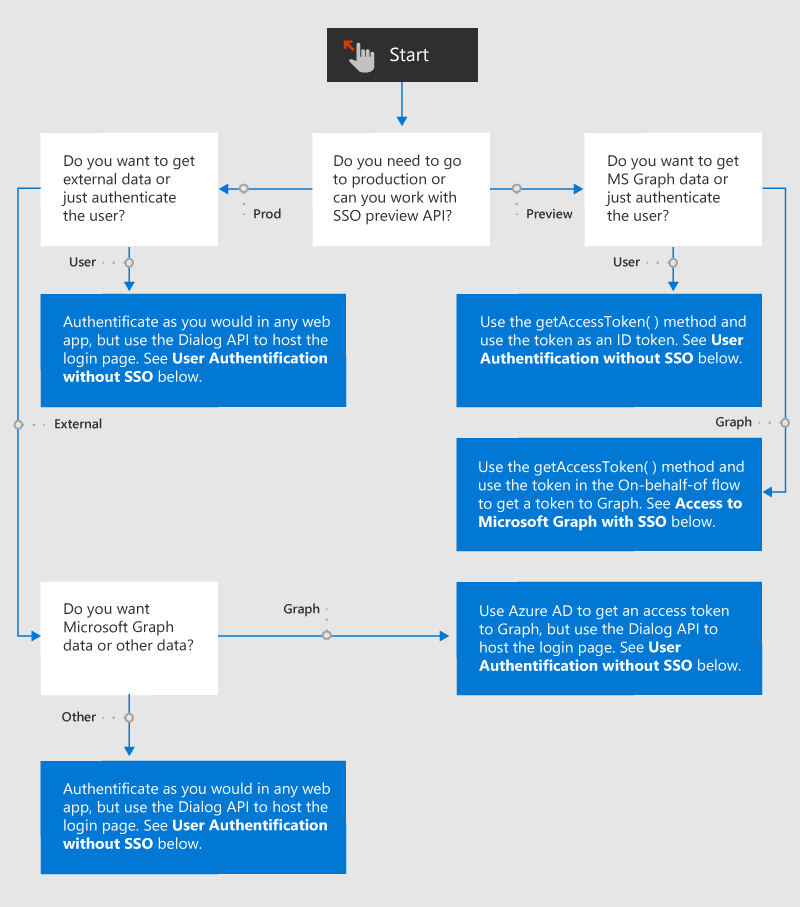
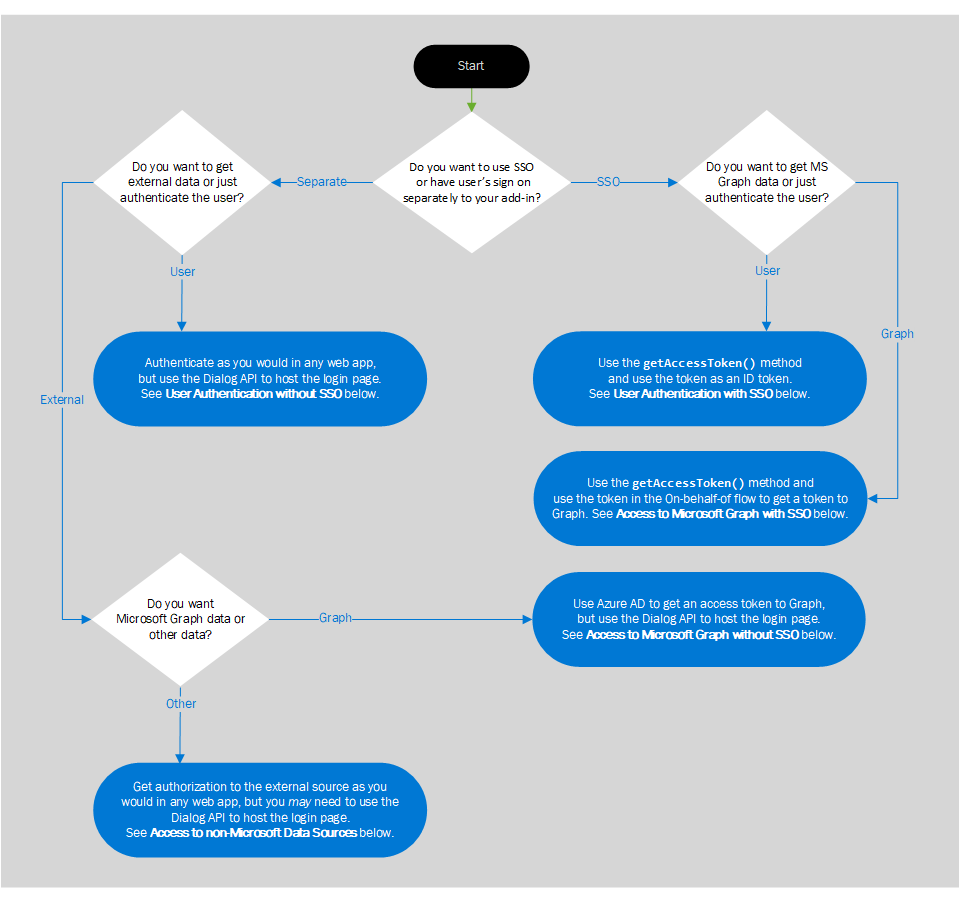
[All Hosts] (auth) correcting overview diagram

Changed region(s): [[0.0, 0.0, 1.0, 1.0], [0.0, 0.4656, 0.0312, 0.4967]]

diff --git a/docs/develop/overview-authn-authz.md b/docs/develop/overview-authn-authz.md
@@ -11,10 +11,10 @@ Web applications and, hence, Office Add-ins allow anonymous access by default, b
 
 Your add-in can also get the user's consent to access their Microsoft Graph data (such as their Microsoft 365 profile, OneDrive files, and SharePoint data) or to data in other external sources such as Google, Facebook, LinkedIn, SalesForce, and GitHub. This task is called add-in (or app) authorization, because it is the *add-in* that is being authorized, not the user.
 
-You have a choice of two ways to accomplish these authentications.
+You have a choice of two ways to accomplish authentication and authorization.
 
 - **Office Single Sign-on (SSO)**: A system that enables the user's login to Office to also function as a login to the add-in. Optionally, the add-in can also use the user's Office credentials to authorize the add-in to Microsoft Graph. (Non-Microsoft sources are not accessible through this system.)
-- **Web Application Authentication and Authorization with Azure Active Directory**: This isn't something new or special. It's just the way Office add-in (and other web apps) authenticated users and authorized apps before there was an Office SSO system and is still used in scenarios where Office SSO cannot be.
+- **Web Application Authentication and Authorization with Azure Active Directory**: This isn't something new or special. It's just the way Office add-in (and other web apps) authenticated users and authorized apps before there was an Office SSO system and is still used in scenarios where Office SSO cannot be. Also, there are scenarios in which you want to have your users login to your add-in separately even when SSO is available; for example, if you want them to have the option of logging into the add-in with a different ID from the one with which they are currently logged into Office.
 
 The following flowchart shows you the decisions that you need to make as an add-in developer. Details are later in this article.
 
